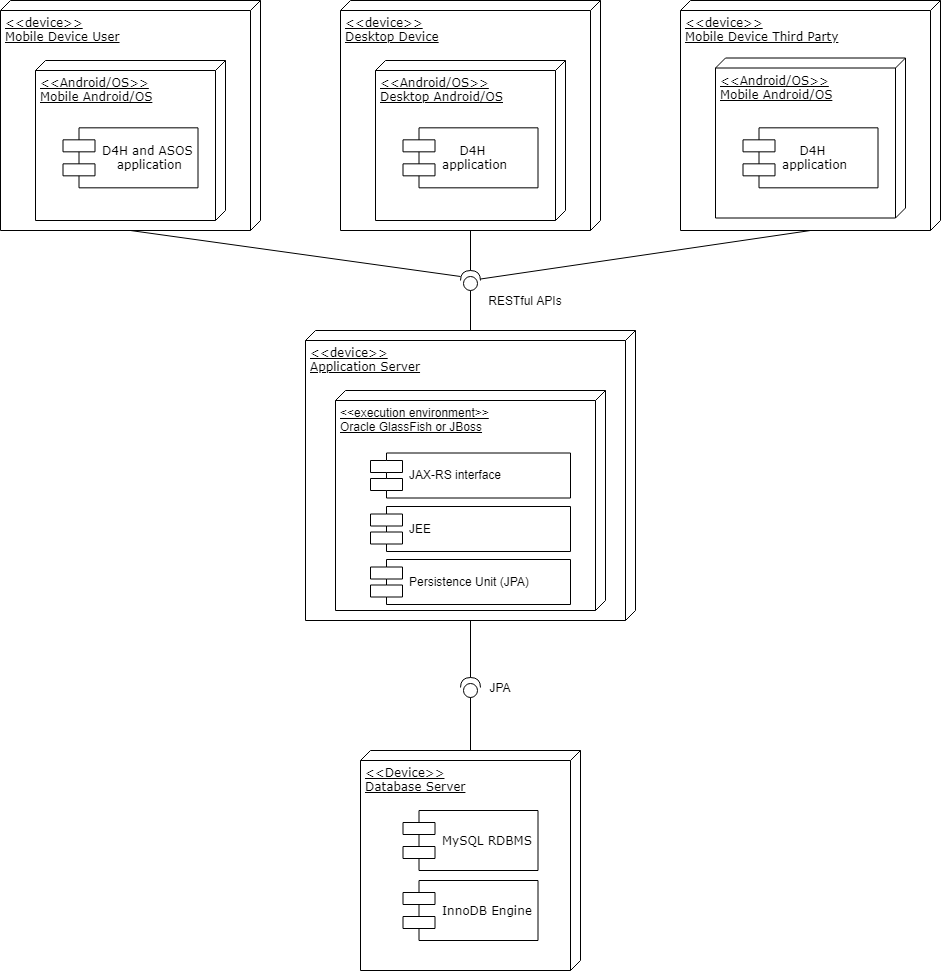
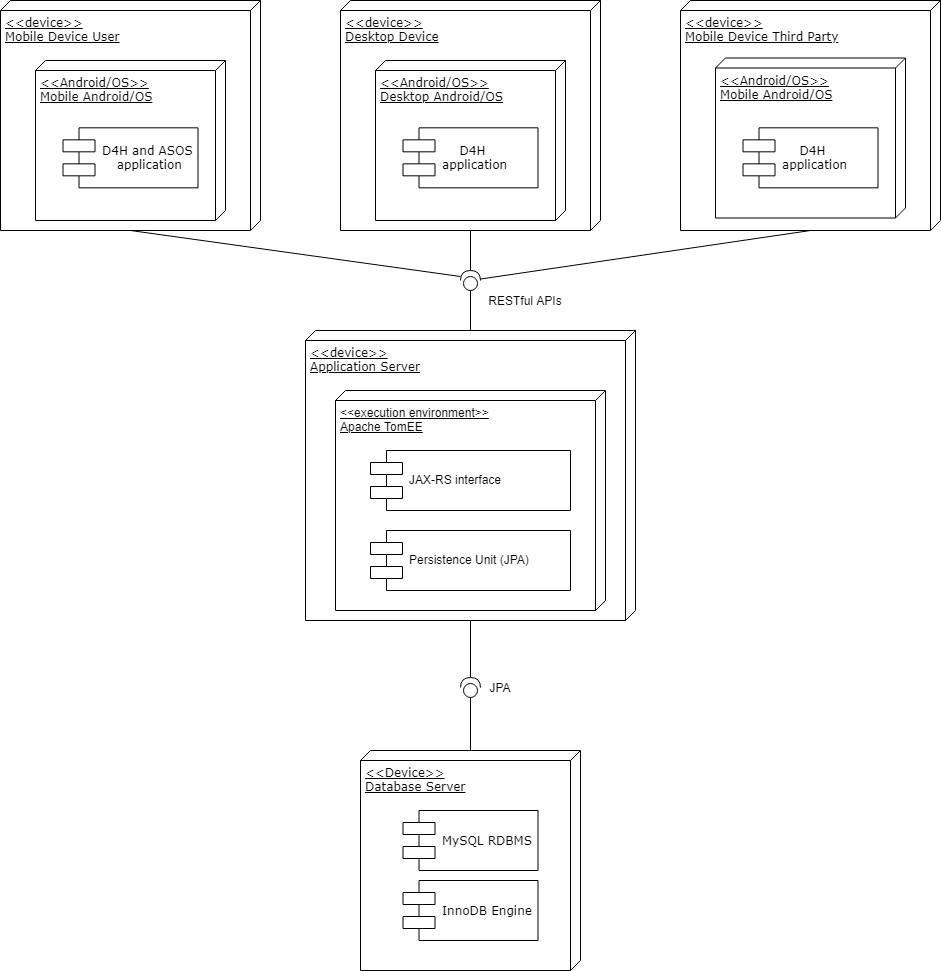
Component interface, some updates

Changed region(s): [[0.3698, 0.4325, 0.5855, 0.6179]]

diff --git a/DD/Requirement_Traceability/requirement_traceability.tex b/DD/Requirement_Traceability/requirement_traceability.tex
@@ -1,0 +1,24 @@
+The purpose of this document is to meet all goals and requirements that have been specified in the RASD. In particular this section associate to goals and requirements the design components thought to guarantee them.\\
+The following lines provide relations between goals, which are re-insert here to better understand the matching, requirements and components.\\
+All requirements aren't report here because this section would become too confuse, they can be found in section 3.3 of the RASD.
+
+\begin{itemize}
+	\item[${\textbf{[G1]}}$] {Allows a person to register and to have a personal area to which he/she can access with his 				credentials.\\(Requirements - \textbf{R1 - R2 - R3 - R3.1 - R3.2 - R3.3})}
+		%\begin{itemize}
+			
+		%\end{itemize}
+	\item[${\textbf{[G2]}}$] {Allows the third party to register and to have a personal area to which it can access with his 				credentials.\\(Requirements - \textbf{R4 - R5 - R6 - R6.1 - R6.2 - R6.3})}
+	\item[${\textbf{[G3]}}$] {Allows the third party to require data.
+				\begin{itemize}
+					\item[${\textbf{[G3.1]}}$] {Third party can require single person's data.\\(Requirements - 								\textbf{R7})}
+					\item[${\textbf{[G3.2]}}$] {Third party can require anonymized data of group of people.\\ 								(Requirements - \textbf{R8 - R8.1 - R8.2})}
+				\end{itemize}}
+	\item[${\textbf{[G4]}}$] {Allows the user to accept or not to let a third party to have access to his/her data.\\(Requirements - 	\textbf{R9 - R10})}
+	\item[${\textbf{[G5]}}$] {Allows third party to subscribe for new data.\\(Requirements - \textbf{R11 - R12 - R13 - R14})}
+	\item[${\textbf{[G6]}}$] {Allows third party to see users' or groups of users' data obtained through a successful request.\\			(Requirements - \textbf{R15 - R16})}
+	\item[${\textbf{[G7]}}$] {Allows users to monitor their health parameters.\\(Requirements - \textbf{R20})}
+	\item[${\textbf{[G8]}}$] {Allows users to activate or deactivate the \hbox{\emph{ASOS}} service on top of \hbox{\emph{D4H}}.\\(Requirements - \textbf{R17})}
+	\item[${\textbf{[G9]}}$] {Allows an unhealty user to receive quick help if have the \hbox{\emph{ASOS}} service activated on his account.\\(Requirements - \textbf{R18 - R19})}
+
+	
+\end{itemize}

diff --git a/DD/Architectural_Design/deployment_view.tex b/DD/Architectural_Design/deployment_view.tex
@@ -7,7 +7,7 @@ In the diagram it is possible to find some implementation choices which are anal
 It has been choice to use Java Enterprise Edition 8.2 (JEE) for the app layer because the aim of the final product is to become a large scope application with a great number of simultaneous clients and because, thanks to the ammount of APIs and tools the developers can focus on the main logic.
 Here there are some choices made for the App Server implementation:
 \begin{itemize}
-	\item GlassFish or Jboss % still have to choose
+	\item Tomcat has been choice as server because it is an incredibly lightweight app, in fact it offers only the most basic 				functionality necessary to run a serverand it allows to use other API to solve all non basic ones. Thanks to its lightweight it is 			quite flexible and stable.
 	\item The RESTful APIs architecture is applied because it makes the efficiet use of the bandwidth and uses standard HTTP. It 			also has a great scalability and it allows to carry out basic operations;
 	\item JAX-RS to implement proper REStful APIs to interface with clients;
 	\item Java Persistence API (JPA) as persistence Unit to acces the database. It has been picked out because it is an Object/			Relational Mapping (ORM) framework applicable to RDBMS without implement direct SQL queries and because of its high 				performances , scalability, stability and quality.

diff --git a/DD/Architectural_Design/component_interface.tex b/DD/Architectural_Design/component_interface.tex
@@ -1,0 +1,10 @@
+This section is devoted to give more datails on the interface between all different components presented in section 2.2.
+
+\subsubsection{Client - Application Server}
+The communication between the client and the Application server is done via Restful APIs provided by the application server and  implemented using JAX-RS.
+
+\subsubsection{Application Server - External Service}
+The external service is an Emergency SOS service, as already said in the RASD, it could be the ECall and E112 system provided in Europe and with already implemented interfaces in most of the countries outside the EU. It is supposed that this system provides the interface APIs to which the Application Server can adapt itself, via the ASOS manager component, to send the health parametes and the location of an unhealty user.
+
+\subsubsection{Application Server - Database}
+Because of the chosen architecture and because of the closed layers the Data Layer can only be access by the App Layer. The Application Server is the only one that can access to the database and this is done through the Persistence Unit which implement the Java Persistence API (JPA) which create a sort of mapping between java objects and the elements inside the DB.

diff --git a/DD/Appendix/appendix.tex b/DD/Appendix/appendix.tex
@@ -7,3 +7,9 @@ The following are all tools used to produce this document:
 	\item \textbf{GitHub:} used to work in a distributed way and to manage different versions of the document (it can be download at		\url{https://github.com});
 	\item \textbf{GitHub Desktop:} this is the official GitHub app which offers a simple and user friendly way to contribute to a git 			project (it can be download at \url{https://desktop.github.com/});
 \end{itemize}
+\section{Efford Spent}
+
+\section{Bibliography}
+\begin{itemize}
+	\item AA 2018/2019 Software Engineering 2 - \emph{Requirements Analysis and Specification Document} - Stefano Bagarin, 			Alessandra Pasini
+\end{itemize}

diff --git a/DD/DD.tex b/DD/DD.tex
@@ -104,6 +104,7 @@
 	\input{./Architectural_Design/runtime_view.tex}
 
 	\section{Component Interfaces}
+	\input{./Architectural_Design/component_interface.tex}
 
 	\section{Selected architectural styles and patterns}
 	\input{./Architectural_Design/styles_patterns.tex}
@@ -120,6 +121,7 @@
 	%Requirements traceability
 	\chapter{Requirements Traceability}
 	\label{ch: Requirements Traceability}
+	\input{./Requirement_Traceability/requirement_traceability.tex}
 
 
 	%Implementation, integration and test plan

diff --git a/DD/Introduction/def_acr_abbr.tex b/DD/Introduction/def_acr_abbr.tex
@@ -29,4 +29,6 @@
 	\item {\textbf {ASOS:} AutomatedSOS.}
 	\item \textbf{DB:} it stands for \textit{database}.
 	\item \textbf{App:} it stands for \textit{application}.
+	\item {\textbf{[Gn]:} n-th goal}
+	\item {\textbf{[Rn]:} n-th requiremnt}
 \end{itemize}

diff --git a/DD/Introduction/reference_documents.tex b/DD/Introduction/reference_documents.tex
@@ -1,0 +1,1 @@
+This document is strictly based on the specification concerning the DD assignment for the Software Engineering II project, part of the course held by professor Matteo Rossi and Elisabetta Di Nitto at the Politecnico di Milano, A.Y 2018/2019.
